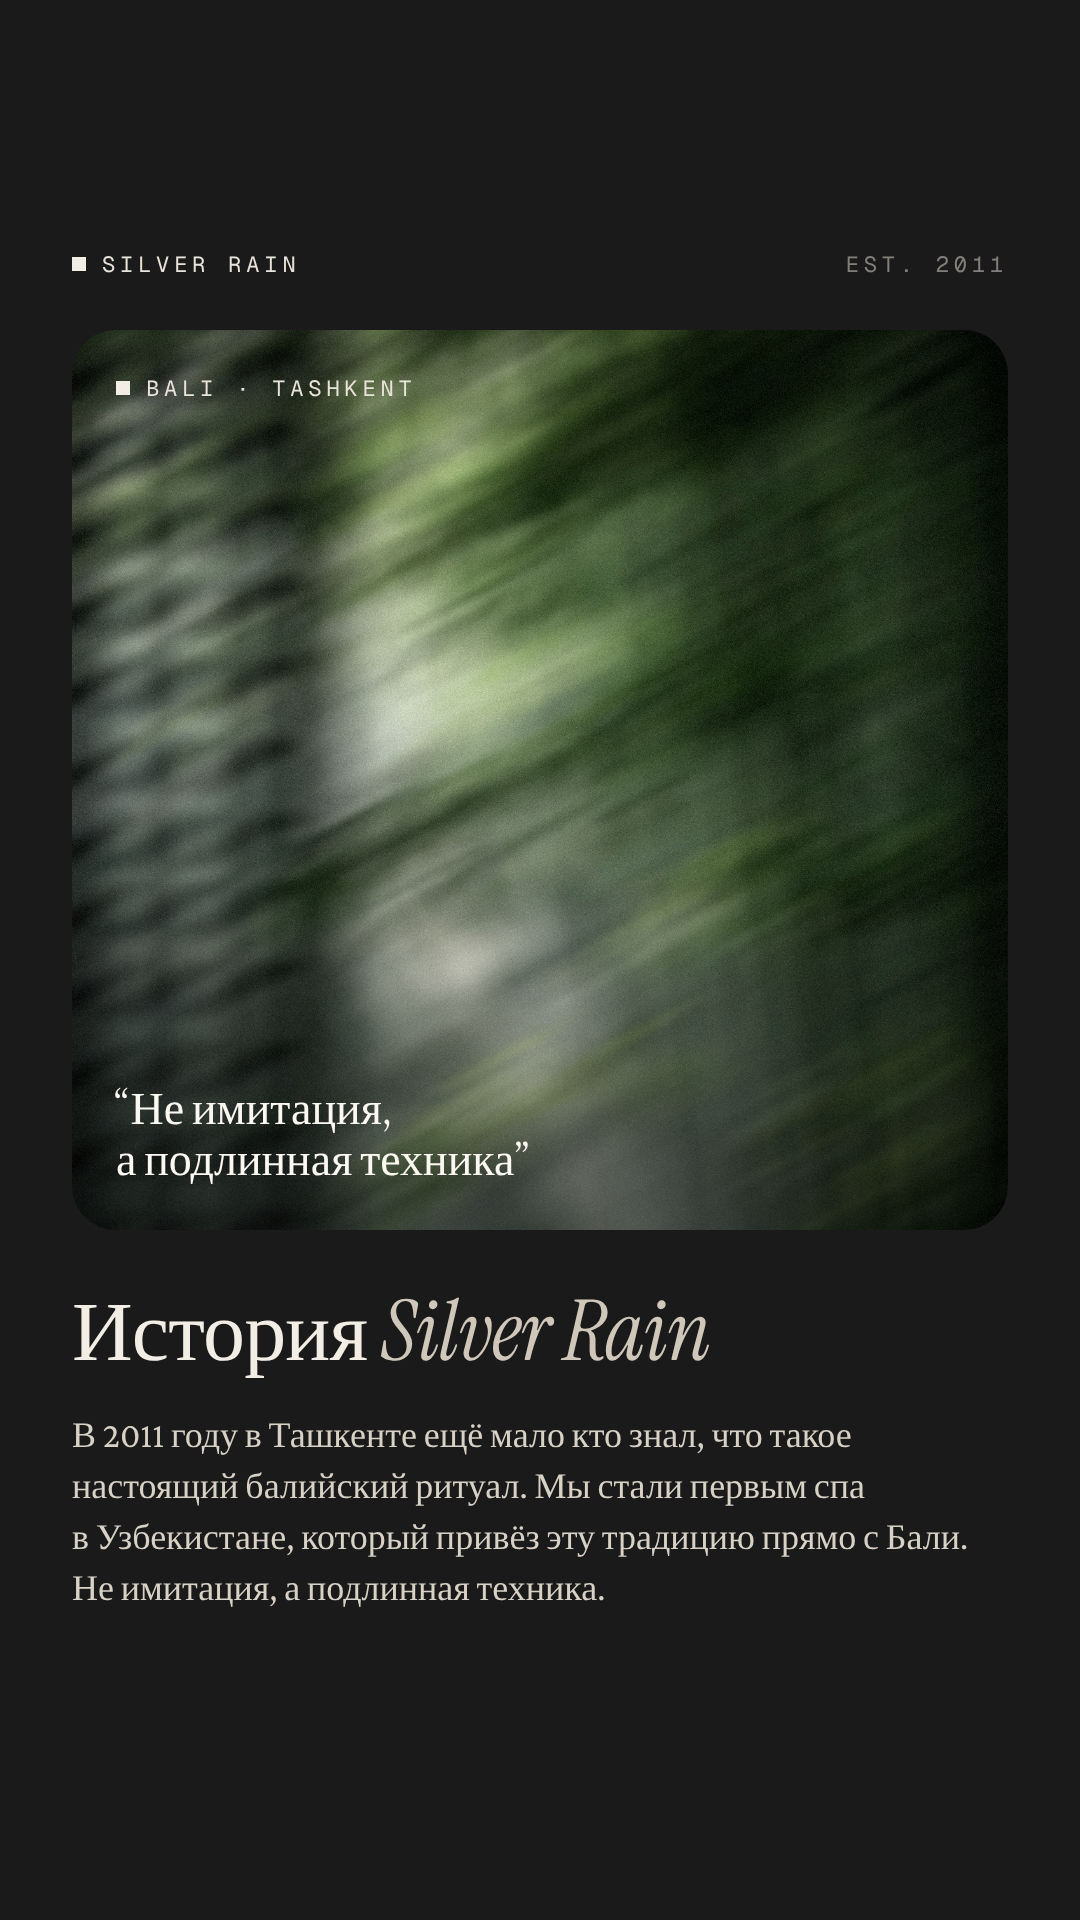
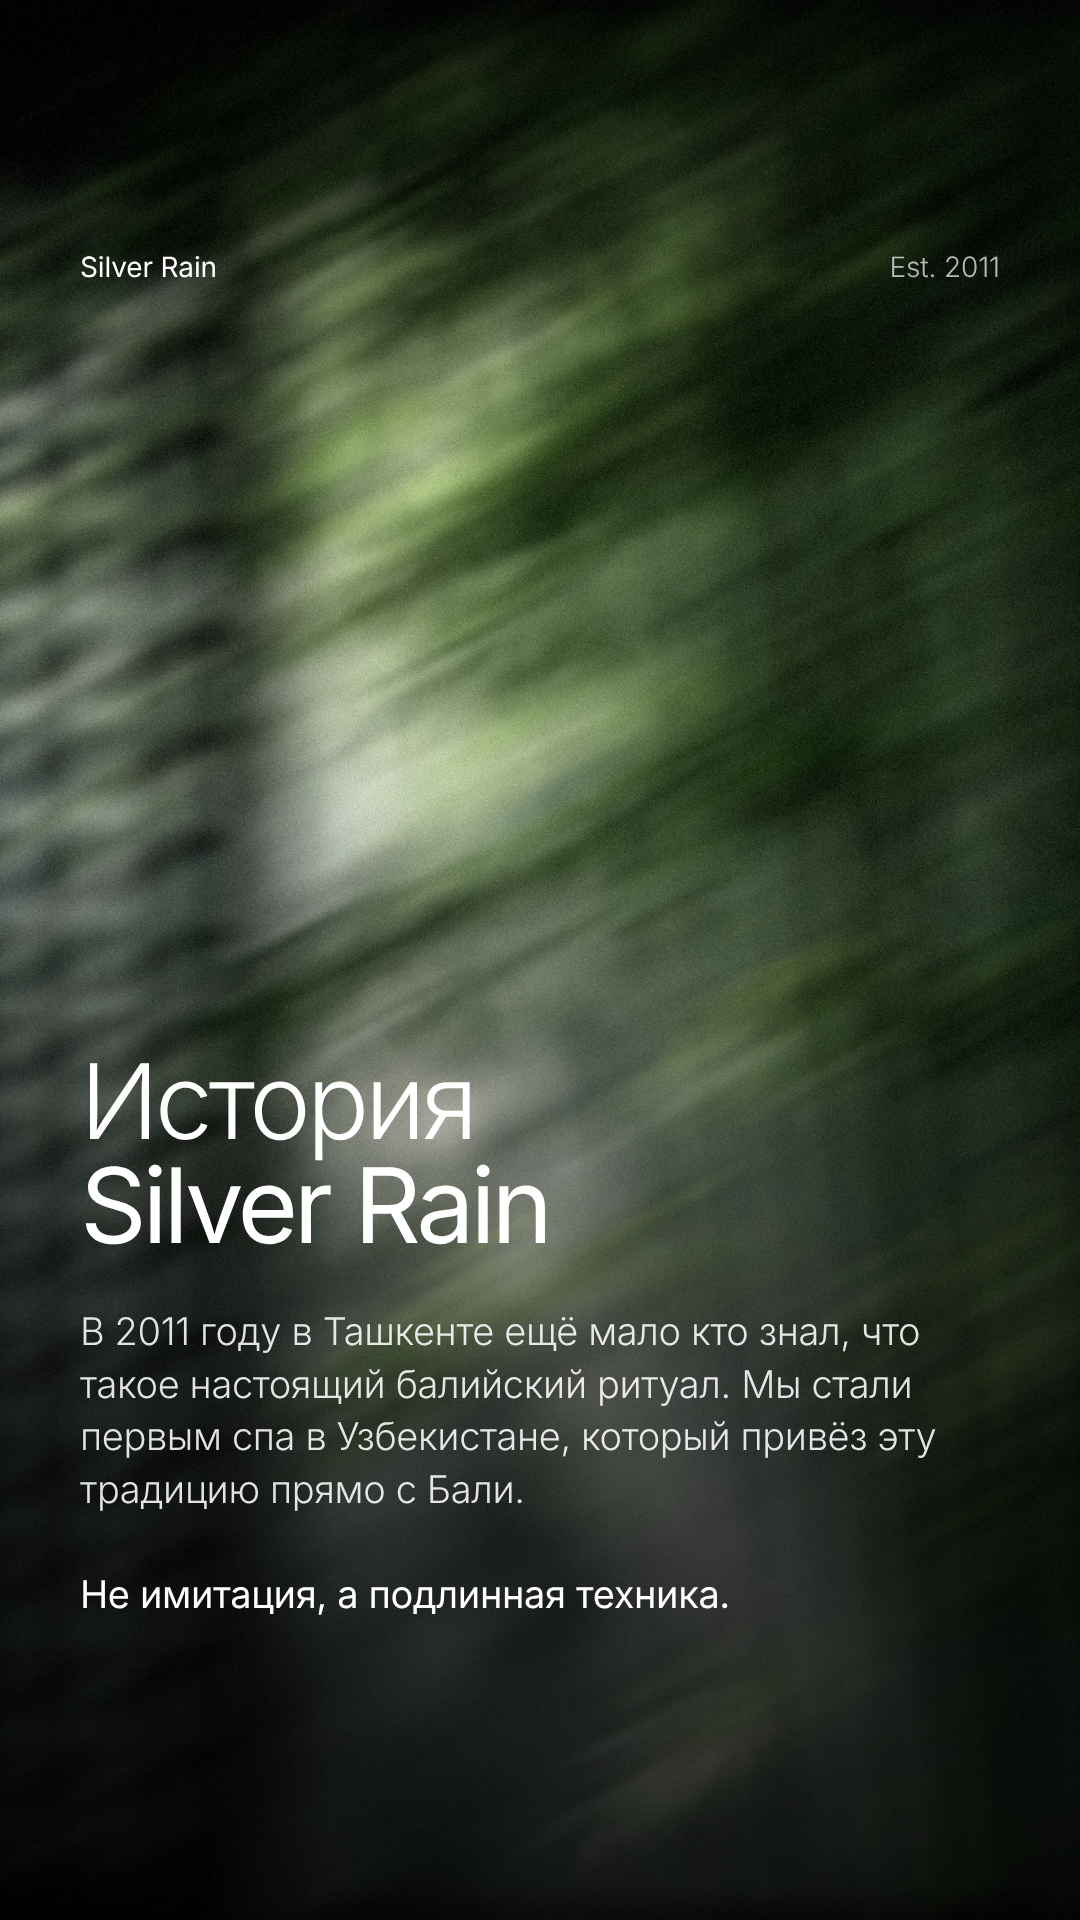
Silver Rain story: full-bleed blurred photo, Inter Display text
Claude-Session: https://claude.ai/code/session_016hDDYxXRao7raJTtdDbdUH

diff --git a/stories-silverrain/story.html b/stories-silverrain/story.html
@@ -1,42 +1,22 @@
 <!doctype html><html><head><meta charset="utf-8"><style>
-@font-face{font-family:IS;src:url(fonts/InstrumentSerif-Regular.ttf)}
-@font-face{font-family:IS;font-style:italic;src:url(fonts/InstrumentSerif-Italic.ttf)}
-@font-face{font-family:CP;src:url(fonts/CrimsonPro-Regular.ttf)}
-@font-face{font-family:GM;src:url(fonts/GeistMono-Regular.ttf)}
 *{margin:0;padding:0;box-sizing:border-box}
-body{background:#1a1a1a}
-.story{position:relative;width:1080px;height:1920px;overflow:hidden;background:#1a1a1a;color:#F2EEE6}
-.lab{font-family:GM;font-size:22px;letter-spacing:.22em;text-transform:uppercase;display:flex;align-items:center;gap:16px;color:#E9E4DA}
-.lab i{width:14px;height:14px;background:#F2EEE6;display:block}
-.top{position:absolute;top:250px;left:72px;right:72px;display:flex;justify-content:space-between}
-.top .dim{opacity:.5}
-.card{position:absolute;left:72px;right:72px;top:330px;height:900px;border-radius:44px;overflow:hidden;
-  background:url(bamboo-blur.jpg) center 40%/cover}
-.card::after{content:"";position:absolute;inset:0;background:linear-gradient(180deg,rgba(0,0,0,.18) 0%,rgba(0,0,0,0) 30%,rgba(0,0,0,0) 55%,rgba(0,0,0,.45) 100%)}
-.card .lab{position:absolute;top:44px;left:44px;z-index:2}
-.card .q{position:absolute;left:44px;right:44px;bottom:44px;z-index:2;font-family:IS;font-size:46px;line-height:1.12;color:#FBF8F2}
-h1{position:absolute;top:1290px;left:72px;right:72px;font-family:IS;font-weight:400;font-size:84px;line-height:1;letter-spacing:-.01em}
-h1 em{font-style:italic;color:#CFC8BA}
-.body{position:absolute;top:1410px;left:72px;right:90px;font-family:CP;font-weight:400;font-size:36px;line-height:1.42;color:#D8D2C6}
-.lt{background:#F3EFE8;color:#1E1C19}
-.lt .top .lab{color:#2A2723}.lt .top .lab i{background:#2A2723}
-.lt h1 em{color:#8A8275}.lt .body{color:#4A453E}
+.story{position:relative;width:1080px;height:1920px;overflow:hidden;color:#FFF;
+  font-family:"SF Pro Display","Inter Display",sans-serif;-webkit-font-smoothing:antialiased;
+  background:url(bamboo-blur.jpg) center/cover}
+.story::after{content:"";position:absolute;inset:0;background:linear-gradient(180deg,rgba(0,0,0,.30) 0%,rgba(0,0,0,0) 22%,rgba(0,0,0,0) 45%,rgba(0,0,0,.55) 75%,rgba(0,0,0,.70) 100%)}
+.z{position:absolute;z-index:2}
+.top{top:250px;left:80px;right:80px;display:flex;justify-content:space-between;font-size:28px;font-weight:400;letter-spacing:-.005em}
+.top .d{opacity:.7;font-weight:300}
+.txt{left:80px;right:80px;bottom:300px}
+h1{font-weight:300;font-size:104px;line-height:1;letter-spacing:-.04em}
+h1 b{font-weight:400}
+.body{margin-top:48px;font-size:38px;font-weight:300;line-height:1.38;letter-spacing:-.01em;color:rgba(255,255,255,.88)}
+.body b{font-weight:400;color:#FFF}
 </style></head><body>
 <section class="story">
-  <div class="top"><div class="lab"><i></i>Silver Rain</div><div class="lab dim">Est. 2011</div></div>
-  <div class="card">
-    <div class="lab"><i></i>Bali · Tashkent</div>
-    <div class="q">“Не имитация,<br>а подлинная техника”</div>
+  <div class="z top"><div>Silver Rain</div><div class="d">Est. 2011</div></div>
+  <div class="z txt">
+    <h1>История<br><b>Silver Rain</b></h1>
+    <div class="body">В 2011 году в&nbsp;Ташкенте ещё мало кто знал, что такое настоящий балийский ритуал. Мы стали первым спа в&nbsp;Узбекистане, который привёз эту традицию прямо с&nbsp;Бали.<br><br><b>Не имитация, а&nbsp;подлинная техника.</b></div>
   </div>
-  <h1>История <em>Silver Rain</em></h1>
-  <div class="body">В 2011 году в Ташкенте ещё мало кто знал, что такое настоящий балийский ритуал. Мы стали первым спа в&nbsp;Узбекистане, который привёз эту традицию прямо с&nbsp;Бали. Не&nbsp;имитация, а подлинная техника.</div>
-</section>
-<section class="story lt">
-  <div class="top"><div class="lab"><i></i>Silver Rain</div><div class="lab dim">Est. 2011</div></div>
-  <div class="card">
-    <div class="lab"><i></i>Bali · Tashkent</div>
-    <div class="q">“Не имитация,<br>а подлинная техника”</div>
-  </div>
-  <h1>История <em>Silver Rain</em></h1>
-  <div class="body">В 2011 году в Ташкенте ещё мало кто знал, что такое настоящий балийский ритуал. Мы стали первым спа в&nbsp;Узбекистане, который привёз эту традицию прямо с&nbsp;Бали. Не&nbsp;имитация, а подлинная техника.</div>
 </section></body></html>
